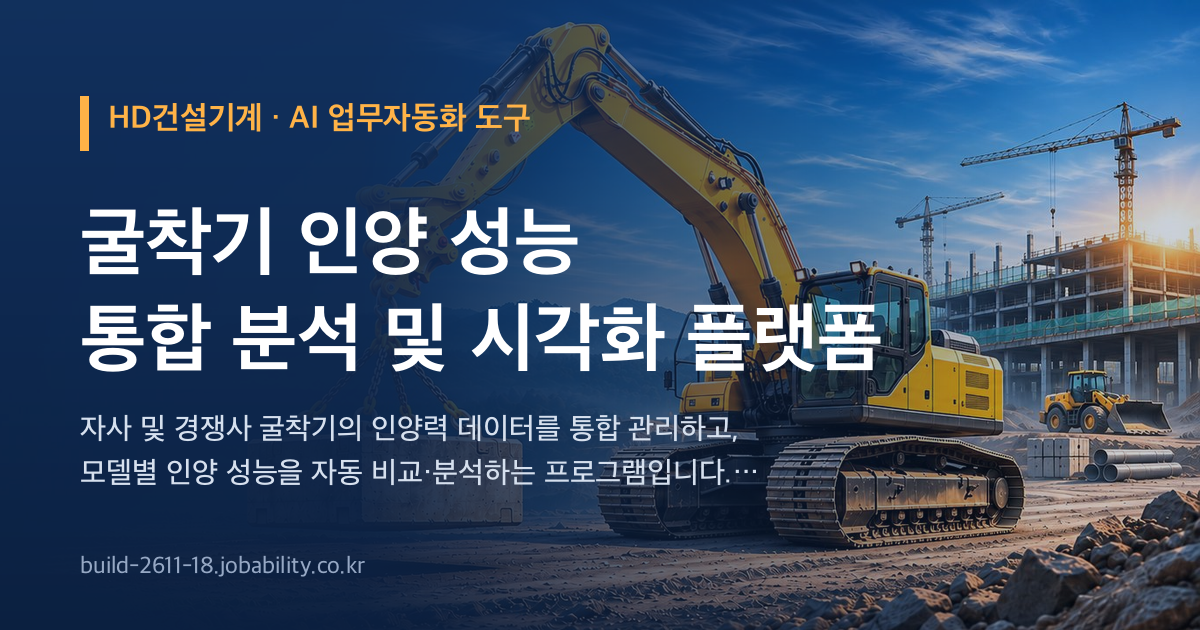
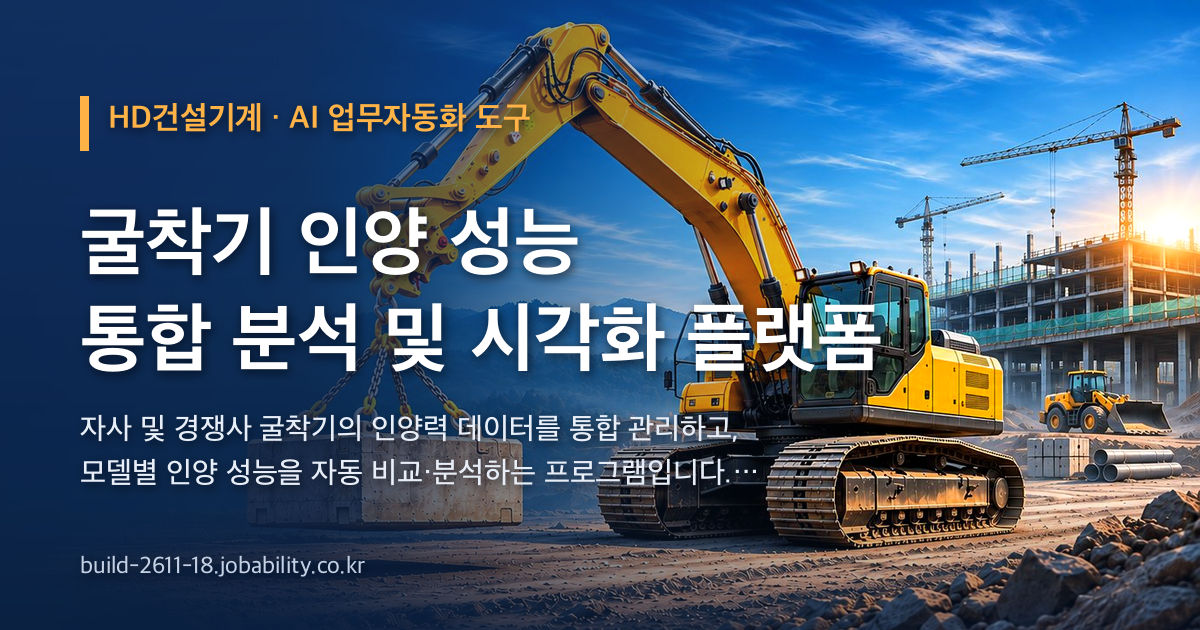
공유 그림 다시(사진 또렷하게) · 판 2026-11-13.12

diff --git a/index.html b/index.html
@@ -12,8 +12,8 @@
 <meta property="og:title" content="HD건설기계 · 굴착기 인양 성능 통합 분석 및 시각화 플랫폼">
 <meta property="og:description" content="자사 및 경쟁사 굴착기의 인양력 데이터를 통합 관리하고, 모델별 인양 성능을 자동 비교·분석하는 프로그램입니다. 경쟁사 인양력 데이터 추출과 작업 반경(Radius)·인양 높이(Height)별 성능 시각화로 벤치마킹과 설계를 돕습니다.">
 <meta property="og:url" content="https://build-2611-18.jobability.co.kr/">
-<meta property="og:image" content="https://build-2611-18.jobability.co.kr/og-image.png">
-<meta property="og:image:secure_url" content="https://build-2611-18.jobability.co.kr/og-image.png">
+<meta property="og:image" content="https://build-2611-18.jobability.co.kr/og-image.png?v=2">
+<meta property="og:image:secure_url" content="https://build-2611-18.jobability.co.kr/og-image.png?v=2">
 <meta property="og:image:type" content="image/png">
 <meta property="og:image:width" content="1200">
 <meta property="og:image:height" content="630">
@@ -22,7 +22,7 @@
 <meta name="twitter:card" content="summary_large_image">
 <meta name="twitter:title" content="HD건설기계 · 굴착기 인양 성능 통합 분석 및 시각화 플랫폼">
 <meta name="twitter:description" content="자사 및 경쟁사 굴착기의 인양력 데이터를 통합 관리하고, 모델별 인양 성능을 자동 비교·분석하는 프로그램입니다. 경쟁사 인양력 데이터 추출과 작업 반경(Radius)·인양 높이(Height)별 성능 시각화로 벤치마킹과 설계를 돕습니다.">
-<meta name="twitter:image" content="https://build-2611-18.jobability.co.kr/og-image.png">
+<meta name="twitter:image" content="https://build-2611-18.jobability.co.kr/og-image.png?v=2">
 <!-- /seo-kit -->
 <meta name="description" content="자사 및 경쟁사 굴착기의 인양력 데이터를 통합 관리하고, 모델별 인양 성능을 자동 비교·분석하는 프로그램입니다. 경쟁사 인양력 데이터 추출과 작업 반경(Radius)·인양 높이(Height)별 성능 시각화로 벤치마킹과 설계를 돕습니다.">
 <link rel="icon" href="favicon.svg" type="image/svg+xml">
@@ -30,9 +30,9 @@
 <link rel="stylesheet" href="css/app.css?v=1.0">
 <!-- auth-kit: 로그인 전에는 도구 화면을 감춘다(js/auth.js 가 판정 뒤 푼다) -->
 <script>document.documentElement.classList.add('auth-lock')</script>
-<link rel="stylesheet" href="css/auth.css?v=2026-11-13.11">
-<link rel="stylesheet" href="css/board.css?v=2026-11-13.11">
-<link rel="stylesheet" href="css/kit-build.css?v=2026-11-13.11">
+<link rel="stylesheet" href="css/auth.css?v=2026-11-13.12">
+<link rel="stylesheet" href="css/board.css?v=2026-11-13.12">
+<link rel="stylesheet" href="css/kit-build.css?v=2026-11-13.12">
 <!-- /auth-kit -->
 </head>
 <body>
@@ -140,11 +140,11 @@
 <script src="js/lift.js?v=1.0"></script>
 <script src="js/app.js?v=1.0"></script>
 <!-- auth-kit: 로그인 · 사용 신청 · 승인 · 게시판(키트 정본 data10-00/kit/auth, 적용 build-2611-00/tools/kit) -->
-<script src="vendor/supabase.js?v=2026-11-13.11"></script>
-<script src="js/auth-config.js?v=2026-11-13.11"></script>
-<script src="js/kit-build.js?v=2026-11-13.11"></script>
-<script src="js/board.js?v=2026-11-13.11"></script>
-<script src="js/auth.js?v=2026-11-13.11"></script>
+<script src="vendor/supabase.js?v=2026-11-13.12"></script>
+<script src="js/auth-config.js?v=2026-11-13.12"></script>
+<script src="js/kit-build.js?v=2026-11-13.12"></script>
+<script src="js/board.js?v=2026-11-13.12"></script>
+<script src="js/auth.js?v=2026-11-13.12"></script>
 <!-- /auth-kit -->
 </body>
 </html>

diff --git a/guide.html b/guide.html
@@ -12,8 +12,8 @@
 <meta property="og:title" content="사용법 — 굴착기 인양력 비교 · 시각화">
 <meta property="og:description" content="자사 · 경쟁사 굴착기 인양력 표준 CSV(19열)를 올리면 옵션별로 걸러 전방 · 측방 인양력을 2D · 3D 로 비교하고, 기준 모델 대비 차이(%)와 엑셀 자료를 만드는 브라우저 도구입니다. 기획자가 Python(Streamlit)으로 만든 V6 프로그램을 설치 없이 쓰는 웹 판으">
 <meta property="og:url" content="https://build-2611-18.jobability.co.kr/guide.html">
-<meta property="og:image" content="https://build-2611-18.jobability.co.kr/og-image.png">
-<meta property="og:image:secure_url" content="https://build-2611-18.jobability.co.kr/og-image.png">
+<meta property="og:image" content="https://build-2611-18.jobability.co.kr/og-image.png?v=2">
+<meta property="og:image:secure_url" content="https://build-2611-18.jobability.co.kr/og-image.png?v=2">
 <meta property="og:image:type" content="image/png">
 <meta property="og:image:width" content="1200">
 <meta property="og:image:height" content="630">
@@ -22,7 +22,7 @@
 <meta name="twitter:card" content="summary_large_image">
 <meta name="twitter:title" content="사용법 — 굴착기 인양력 비교 · 시각화">
 <meta name="twitter:description" content="자사 · 경쟁사 굴착기 인양력 표준 CSV(19열)를 올리면 옵션별로 걸러 전방 · 측방 인양력을 2D · 3D 로 비교하고, 기준 모델 대비 차이(%)와 엑셀 자료를 만드는 브라우저 도구입니다. 기획자가 Python(Streamlit)으로 만든 V6 프로그램을 설치 없이 쓰는 웹 판으">
-<meta name="twitter:image" content="https://build-2611-18.jobability.co.kr/og-image.png">
+<meta name="twitter:image" content="https://build-2611-18.jobability.co.kr/og-image.png?v=2">
 <!-- /seo-kit -->
 <link rel="icon" href="favicon.svg" type="image/svg+xml">
 <link rel="stylesheet" href="css/style.css?v=1.0">

diff --git a/plan.html b/plan.html
@@ -12,8 +12,8 @@
 <meta property="og:title" content="기획서 — 굴착기 인양력 비교 · 시각화">
 <meta property="og:description" content="자사 · 경쟁사 굴착기 인양력 표준 CSV(19열)를 올리면 옵션별로 걸러 전방 · 측방 인양력을 2D · 3D 로 비교하고, 기준 모델 대비 차이(%)와 엑셀 자료를 만드는 브라우저 도구입니다. 기획자가 Python(Streamlit)으로 만든 V6 프로그램을 설치 없이 쓰는 웹 판으">
 <meta property="og:url" content="https://build-2611-18.jobability.co.kr/plan.html">
-<meta property="og:image" content="https://build-2611-18.jobability.co.kr/og-image.png">
-<meta property="og:image:secure_url" content="https://build-2611-18.jobability.co.kr/og-image.png">
+<meta property="og:image" content="https://build-2611-18.jobability.co.kr/og-image.png?v=2">
+<meta property="og:image:secure_url" content="https://build-2611-18.jobability.co.kr/og-image.png?v=2">
 <meta property="og:image:type" content="image/png">
 <meta property="og:image:width" content="1200">
 <meta property="og:image:height" content="630">
@@ -22,7 +22,7 @@
 <meta name="twitter:card" content="summary_large_image">
 <meta name="twitter:title" content="기획서 — 굴착기 인양력 비교 · 시각화">
 <meta name="twitter:description" content="자사 · 경쟁사 굴착기 인양력 표준 CSV(19열)를 올리면 옵션별로 걸러 전방 · 측방 인양력을 2D · 3D 로 비교하고, 기준 모델 대비 차이(%)와 엑셀 자료를 만드는 브라우저 도구입니다. 기획자가 Python(Streamlit)으로 만든 V6 프로그램을 설치 없이 쓰는 웹 판으">
-<meta name="twitter:image" content="https://build-2611-18.jobability.co.kr/og-image.png">
+<meta name="twitter:image" content="https://build-2611-18.jobability.co.kr/og-image.png?v=2">
 <!-- /seo-kit -->
 <link rel="icon" href="favicon.svg" type="image/svg+xml">
 <link rel="stylesheet" href="css/style.css">

diff --git a/report.html b/report.html
@@ -12,8 +12,8 @@
 <meta property="og:title" content="평가보고서 — 굴착기 인양력 비교 · 시각화">
 <meta property="og:description" content="굴착기 인양력 비교 · 시각화 점검 · 평가보고서(2026-11-13) — 사이트 점검, 기능과 시험, 인계 준비, 판 이력, 한계.">
 <meta property="og:url" content="https://build-2611-18.jobability.co.kr/report.html">
-<meta property="og:image" content="https://build-2611-18.jobability.co.kr/og-image.png">
-<meta property="og:image:secure_url" content="https://build-2611-18.jobability.co.kr/og-image.png">
+<meta property="og:image" content="https://build-2611-18.jobability.co.kr/og-image.png?v=2">
+<meta property="og:image:secure_url" content="https://build-2611-18.jobability.co.kr/og-image.png?v=2">
 <meta property="og:image:type" content="image/png">
 <meta property="og:image:width" content="1200">
 <meta property="og:image:height" content="630">
@@ -22,7 +22,7 @@
 <meta name="twitter:card" content="summary_large_image">
 <meta name="twitter:title" content="평가보고서 — 굴착기 인양력 비교 · 시각화">
 <meta name="twitter:description" content="굴착기 인양력 비교 · 시각화 점검 · 평가보고서(2026-11-13) — 사이트 점검, 기능과 시험, 인계 준비, 판 이력, 한계.">
-<meta name="twitter:image" content="https://build-2611-18.jobability.co.kr/og-image.png">
+<meta name="twitter:image" content="https://build-2611-18.jobability.co.kr/og-image.png?v=2">
 <!-- /seo-kit -->
 <meta name="description" content="굴착기 인양력 비교 · 시각화 점검 · 평가보고서(2026-11-13) — 사이트 점검, 기능과 시험, 인계 준비, 판 이력, 한계.">
 <link rel="icon" href="favicon.svg" type="image/svg+xml">
